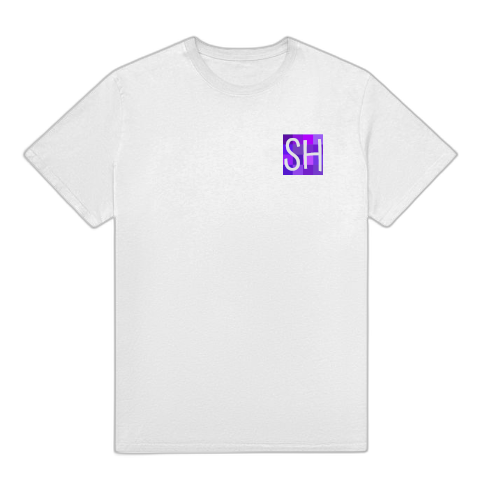
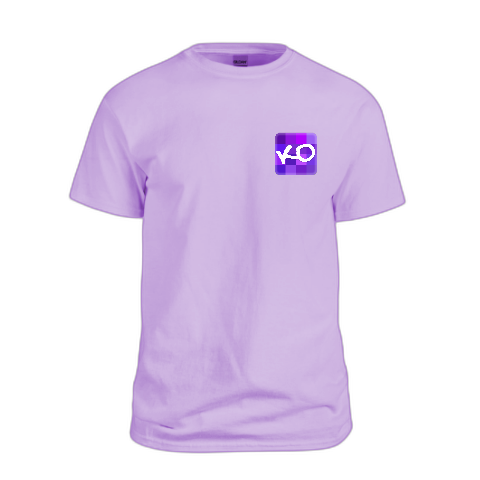
add new merch images

diff --git a/src/common/components/Home/MerchSection.tsx b/src/common/components/Home/MerchSection.tsx
@@ -1,8 +1,12 @@
 import Image from 'next/image';
 import { styled, theme } from 'stiches.config';
 
-import mug from '@images/shop/mug.png';
+import hat from '@images/shop/hat.png';
+import mask from '@images/shop/mask.png';
+import sweatshirt from '@images/shop/sweatshirt.png';
+import tanktop from '@images/shop/tanktop.png';
 import tshirt from '@images/shop/tshirt.png';
+import tshirt2 from '@images/shop/tshirt2.png';
 import { CSS } from '@stitches/react';
 
 import Section from './Section';
@@ -78,38 +82,38 @@ const MerchSection = () => {
 			<Section.Content css={contentCss}>
 				<MerchItem>
 					<MerchLink href='#'>
-						<MerchImage src={tshirt} alt='tshirt' />
-						<MerchLabel>T-Shirt $35</MerchLabel>
+						<MerchImage src={hat} alt='hat' />
+						<MerchLabel>Hat $15</MerchLabel>
 					</MerchLink>
 				</MerchItem>
 				<MerchItem>
 					<MerchLink href='#'>
-						<MerchImage src={mug} alt='tshirt' />
-						<MerchLabel>Mug $15</MerchLabel>
-					</MerchLink>
-				</MerchItem>
-				<MerchItem>
-					<MerchLink href='#'>
-						<MerchImage src={tshirt} alt='tshirt' />
-						<MerchLabel>T-Shirt $35</MerchLabel>
-					</MerchLink>
-				</MerchItem>
-				<MerchItem>
-					<MerchLink href='#'>
-						<MerchImage src={mug} alt='tshirt' />
-						<MerchLabel>Mug $15</MerchLabel>
+						<MerchImage src={sweatshirt} alt='sweatshirt' />
+						<MerchLabel>Sweatshirt $35</MerchLabel>
 					</MerchLink>
 				</MerchItem>
 				<MerchItem>
 					<MerchLink href='#'>
 						<MerchImage src={tshirt} alt='tshirt' />
-						<MerchLabel>T-Shirt $35</MerchLabel>
+						<MerchLabel>T-Shirt $20</MerchLabel>
 					</MerchLink>
 				</MerchItem>
 				<MerchItem>
 					<MerchLink href='#'>
-						<MerchImage src={mug} alt='tshirt' />
-						<MerchLabel>Mug $15</MerchLabel>
+						<MerchImage src={tshirt2} alt='tshirt' />
+						<MerchLabel>T-Shirt $20</MerchLabel>
+					</MerchLink>
+				</MerchItem>
+				<MerchItem>
+					<MerchLink href='#'>
+						<MerchImage src={tanktop} alt='tanktop' />
+						<MerchLabel>Tanktop $15</MerchLabel>
+					</MerchLink>
+				</MerchItem>
+				<MerchItem>
+					<MerchLink href='#'>
+						<MerchImage src={mask} alt='mask' />
+						<MerchLabel>Mask $10</MerchLabel>
 					</MerchLink>
 				</MerchItem>
 			</Section.Content>
